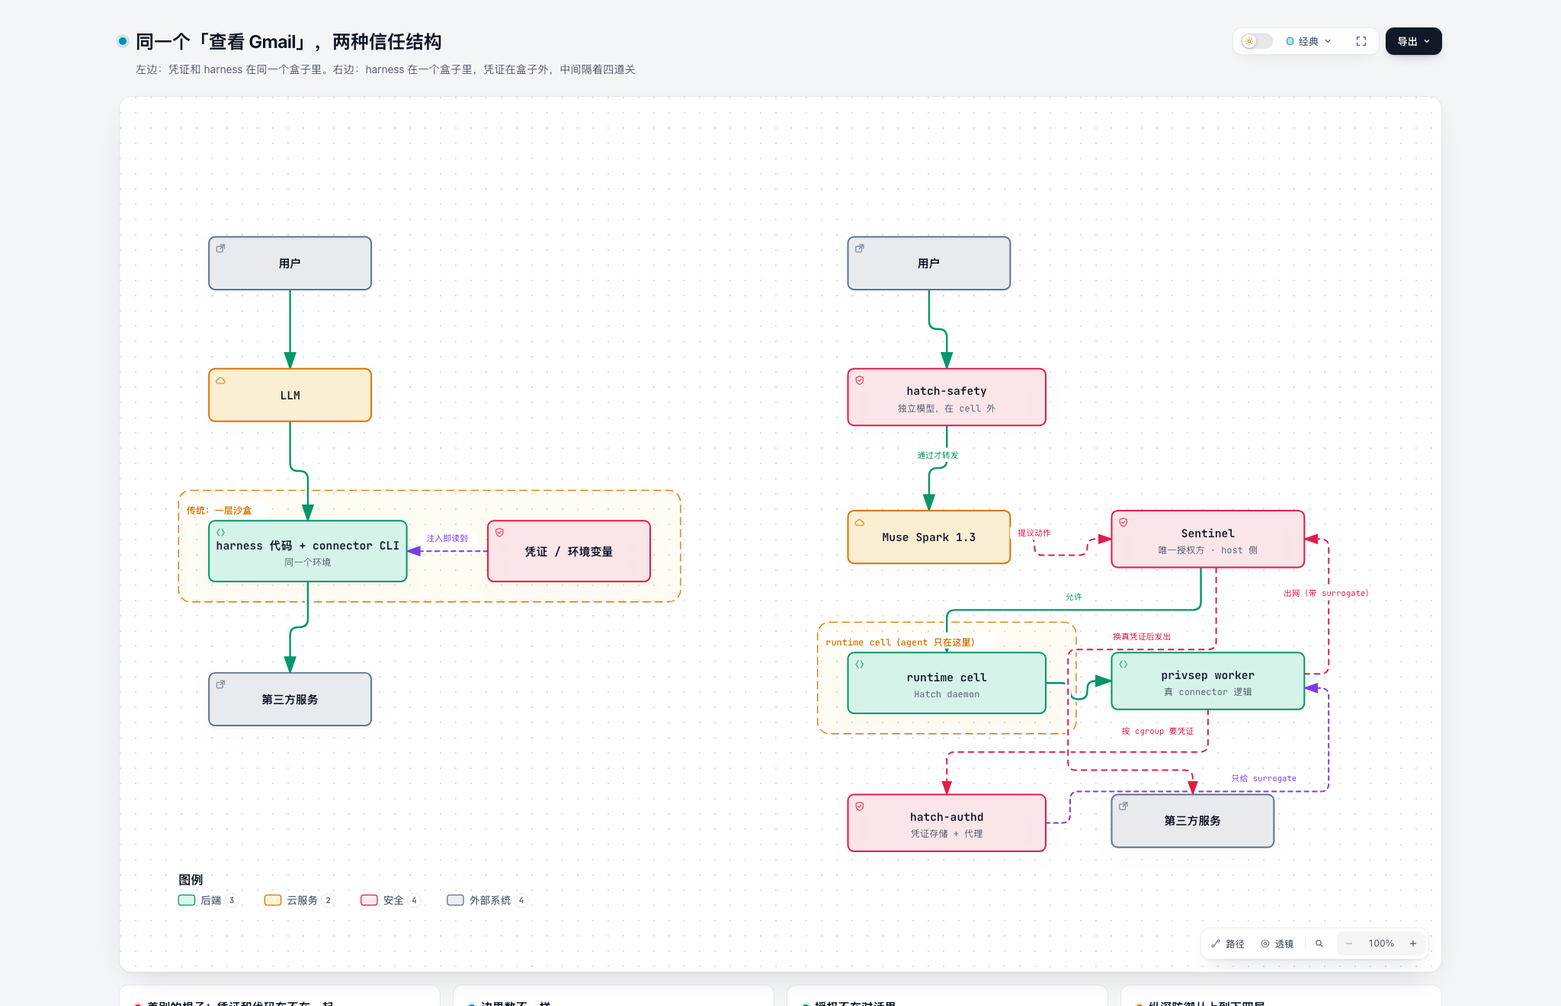
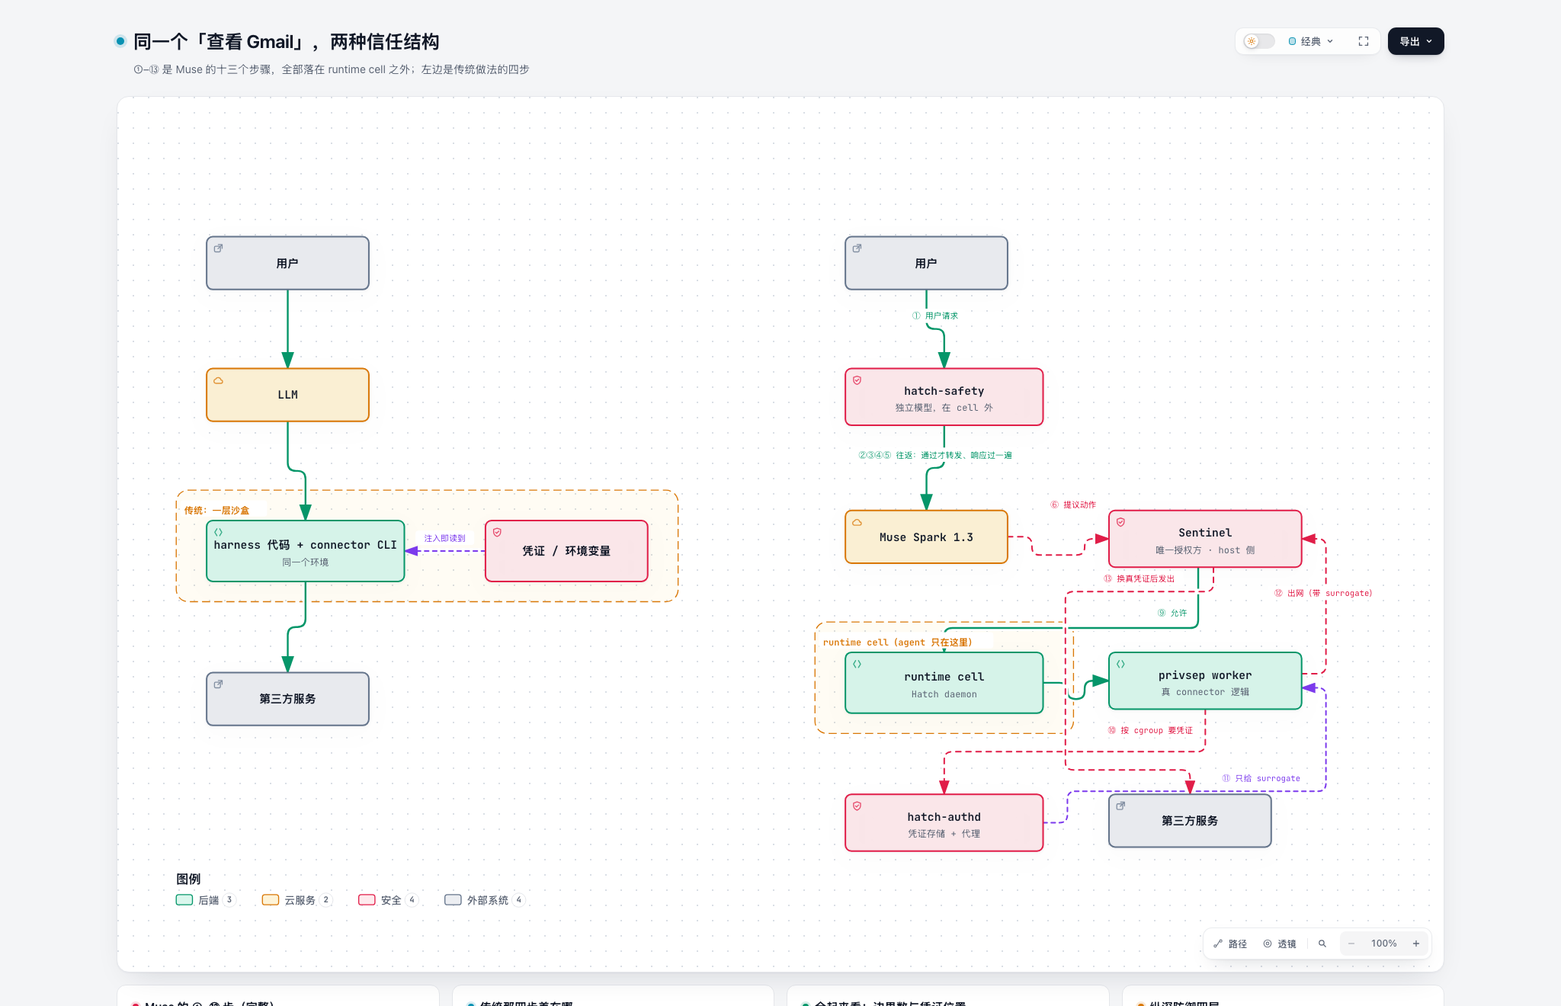
docs: 把时序图的步骤合并进对比图
按「既有细节又有对比」重做 muse-trust-boundaries：
- 保留原对比结构不变（13 条边，一条不加）
- 把 ①–⑬ 的步骤编号压到对应边的标签上
- 完整 13 步的文字放进卡片，同页可读

尝试过把 13 步全部做成独立边（17 条），但 cell→safety→model→safety→cell
是个环，叠加 worker↔authd、worker→sentinel 的回边后平面布局必然交叉，
标签校验过不了。改成编号叠加后四道门全过。

diff --git a/diagrams/muse-trust-boundaries.html b/diagrams/muse-trust-boundaries.html
@@ -4980,7 +4980,7 @@ OTHER DEALINGS IN THE FONT SOFTWARE.
         <div class="pulse-dot"></div>
         <h1>同一个「查看 Gmail」，两种信任结构</h1>
       </div>
-      <p class="subtitle">左边：凭证和 harness 在同一个盒子里。右边：harness 在一个盒子里，凭证在盒子外，中间隔着四道关</p>
+      <p class="subtitle">①–⑬ 是 Muse 的十三个步骤，全部落在 runtime cell 之外；左边是传统做法的四步</p>
     </div>
 
 
@@ -4988,9 +4988,9 @@ OTHER DEALINGS IN THE FONT SOFTWARE.
     <!-- Main Diagram -->
     <div class="diagram-container" data-detail-level="read"
          data-preset-badge-editorial-plate="ARCHIFY / 图版 04">
-      <svg viewBox="0 0 1267 794" role="img" lang="zh-CN" aria-labelledby="archify-diagram-title archify-diagram-description" data-preset="classic" data-quality-profile="showcase" data-reader-fit="intrinsic-height" data-reader-min-text="7.5" data-reader-primary-text="14">
+      <svg viewBox="0 0 1272 794" role="img" lang="zh-CN" aria-labelledby="archify-diagram-title archify-diagram-description" data-preset="classic" data-quality-profile="showcase" data-reader-fit="intrinsic-height" data-reader-min-text="7.5" data-reader-primary-text="14">
         <title id="archify-diagram-title">同一个「查看 Gmail」，两种信任结构</title>
-        <desc id="archify-diagram-description">左边：凭证和 harness 在同一个盒子里。右边：harness 在一个盒子里，凭证在盒子外，中间隔着四道关</desc>
+        <desc id="archify-diagram-description">①–⑬ 是 Muse 的十三个步骤，全部落在 runtime cell 之外；左边是传统做法的四步</desc>
         <!-- Definitions -->
         <defs>
           <marker id="arrowhead" markerWidth="10" markerHeight="7" refX="9" refY="3.5" orient="auto">
@@ -5037,19 +5037,19 @@ OTHER DEALINGS IN THE FONT SOFTWARE.
         </g>
         <g data-graph-role="automatic-crossover" style="--step:4">
           <path data-graph-role="automatic-crossover-underlay" d="M 780 172 L 780 203 Q 780 211 788 211 L 789.5 211 Q 797.5 211 797.5 219 L 797.5 250" fill="none" stroke="var(--mask)" stroke-width="5.8" stroke-linecap="round" stroke-linejoin="round" pointer-events="none"/>
-          <path data-edge-from="m_user" data-edge-to="m_safety" data-edge-key="4" data-edge-id="m1" data-composition-points="780,172;780,211;797.5,211;797.5,250" data-composition-crossover="halo" data-composition-independent="true" d="M 780 172 L 780 203 Q 780 211 788 211 L 789.5 211 Q 797.5 211 797.5 219 L 797.5 250" class="a-emphasis" stroke-width="1.8" marker-end="url(#arrowhead-emphasis)"/>
+          <path data-edge-from="m_user" data-edge-to="m_safety" data-edge-label="① 用户请求" data-edge-key="4" data-edge-id="m1" data-composition-points="780,172;780,211;797.5,211;797.5,250" data-composition-crossover="halo" data-composition-independent="true" d="M 780 172 L 780 203 Q 780 211 788 211 L 789.5 211 Q 797.5 211 797.5 219 L 797.5 250" class="a-emphasis" stroke-width="1.8" marker-end="url(#arrowhead-emphasis)"/>
         </g>
         <g data-graph-role="automatic-crossover" style="--step:5">
           <path data-graph-role="automatic-crossover-underlay" d="M 797.5 306 L 797.5 340 Q 797.5 348 789.5 348 L 788 348 Q 780 348 780 356 L 780 390" fill="none" stroke="var(--mask)" stroke-width="5.8" stroke-linecap="round" stroke-linejoin="round" pointer-events="none"/>
-          <path data-edge-from="m_safety" data-edge-to="m_model" data-edge-label="通过才转发" data-edge-key="5" data-edge-id="m2" data-composition-points="797.5,306;797.5,348;780,348;780,390" data-composition-crossover="halo" data-composition-independent="true" d="M 797.5 306 L 797.5 340 Q 797.5 348 789.5 348 L 788 348 Q 780 348 780 356 L 780 390" class="a-emphasis" stroke-width="1.8" marker-end="url(#arrowhead-emphasis)"/>
+          <path data-edge-from="m_safety" data-edge-to="m_model" data-edge-label="②③④⑤ 往返：通过才转发、响应过一遍" data-edge-key="5" data-edge-id="m2" data-composition-points="797.5,306;797.5,348;780,348;780,390" data-composition-crossover="halo" data-composition-independent="true" d="M 797.5 306 L 797.5 340 Q 797.5 348 789.5 348 L 788 348 Q 780 348 780 356 L 780 390" class="a-emphasis" stroke-width="1.8" marker-end="url(#arrowhead-emphasis)"/>
         </g>
         <g data-graph-role="automatic-crossover" style="--step:6">
           <path data-graph-role="automatic-crossover-underlay" d="M 860 416 L 876 416 Q 884 416 884 424 L 884 426 Q 884 434 892 434 L 928 434 Q 936 434 936 426 L 936 426 Q 936 418 944 418 L 960 418" fill="none" stroke="var(--mask)" stroke-width="5.5" stroke-linecap="round" stroke-linejoin="round" pointer-events="none"/>
-          <path data-edge-from="m_model" data-edge-to="m_sentinel" data-edge-label="提议动作" data-edge-key="6" data-edge-id="m3" data-composition-points="860,416;884,416;884,434;936,434;936,418;960,418" data-composition-crossover="halo" data-composition-independent="true" d="M 860 416 L 876 416 Q 884 416 884 424 L 884 426 Q 884 434 892 434 L 928 434 Q 936 434 936 426 L 936 426 Q 936 418 944 418 L 960 418" class="a-security" stroke-width="1.5" marker-end="url(#arrowhead-security)"/>
+          <path data-edge-from="m_model" data-edge-to="m_sentinel" data-edge-label="⑥ 提议动作" data-edge-key="6" data-edge-id="m3" data-composition-points="860,416;884,416;884,434;936,434;936,418;960,418" data-composition-crossover="halo" data-composition-independent="true" d="M 860 416 L 876 416 Q 884 416 884 424 L 884 426 Q 884 434 892 434 L 928 434 Q 936 434 936 426 L 936 426 Q 936 418 944 418 L 960 418" class="a-security" stroke-width="1.5" marker-end="url(#arrowhead-security)"/>
         </g>
         <g data-graph-role="automatic-crossover" style="--step:7">
-          <path data-graph-role="automatic-crossover-underlay" d="M 1048 446 L 1048 480 Q 1048 488 1040 488 L 805.5 488 Q 797.5 488 797.5 496 L 797.5 530" fill="none" stroke="var(--mask)" stroke-width="5.8" stroke-linecap="round" stroke-linejoin="round" pointer-events="none"/>
-          <path data-edge-from="m_sentinel" data-edge-to="m_cell" data-edge-label="允许" data-edge-key="7" data-edge-id="m4" data-composition-points="1048,446;1048,488;797.5,488;797.5,530" data-composition-crossover="halo" data-composition-independent="true" d="M 1048 446 L 1048 480 Q 1048 488 1040 488 L 805.5 488 Q 797.5 488 797.5 496 L 797.5 530" class="a-emphasis" stroke-width="1.8" marker-end="url(#arrowhead-emphasis)"/>
+          <path data-graph-role="automatic-crossover-underlay" d="M 1048 446 L 1048 498 Q 1048 506 1040 506 L 805.5 506 Q 797.5 506 797.5 514 L 797.5 530" fill="none" stroke="var(--mask)" stroke-width="5.8" stroke-linecap="round" stroke-linejoin="round" pointer-events="none"/>
+          <path data-edge-from="m_sentinel" data-edge-to="m_cell" data-edge-label="⑨ 允许" data-edge-key="7" data-edge-id="m4" data-composition-points="1048,446;1048,506;797.5,506;797.5,530" data-composition-crossover="halo" data-composition-independent="true" d="M 1048 446 L 1048 498 Q 1048 506 1040 506 L 805.5 506 Q 797.5 506 797.5 514 L 797.5 530" class="a-emphasis" stroke-width="1.8" marker-end="url(#arrowhead-emphasis)"/>
         </g>
         <g data-graph-role="automatic-crossover" style="--step:8">
           <path data-graph-role="automatic-crossover-underlay" d="M 895 560 L 911 560 Q 919 560 919 568 L 919 568 Q 919 576 927 576 L 928 576 Q 936 576 936 568 L 936 566 Q 936 558 944 558 L 960 558" fill="none" stroke="var(--mask)" stroke-width="5.8" stroke-linecap="round" stroke-linejoin="round" pointer-events="none"/>
@@ -5057,19 +5057,19 @@ OTHER DEALINGS IN THE FONT SOFTWARE.
         </g>
         <g data-graph-role="automatic-crossover" style="--step:9">
           <path data-graph-role="automatic-crossover-underlay" d="M 1055 586 L 1055 620 Q 1055 628 1047 628 L 805.5 628 Q 797.5 628 797.5 636 L 797.5 670" fill="none" stroke="var(--mask)" stroke-width="5.5" stroke-linecap="round" stroke-linejoin="round" pointer-events="none"/>
-          <path data-edge-from="m_worker" data-edge-to="m_authd" data-edge-label="按 cgroup 要凭证" data-edge-key="9" data-edge-id="m6" data-composition-points="1055,586;1055,628;797.5,628;797.5,670" data-composition-crossover="halo" data-composition-independent="true" d="M 1055 586 L 1055 620 Q 1055 628 1047 628 L 805.5 628 Q 797.5 628 797.5 636 L 797.5 670" class="a-security" stroke-width="1.5" marker-end="url(#arrowhead-security)"/>
+          <path data-edge-from="m_worker" data-edge-to="m_authd" data-edge-label="⑩ 按 cgroup 要凭证" data-edge-key="9" data-edge-id="m6" data-composition-points="1055,586;1055,628;797.5,628;797.5,670" data-composition-crossover="halo" data-composition-independent="true" d="M 1055 586 L 1055 620 Q 1055 628 1047 628 L 805.5 628 Q 797.5 628 797.5 636 L 797.5 670" class="a-security" stroke-width="1.5" marker-end="url(#arrowhead-security)"/>
         </g>
         <g data-graph-role="automatic-crossover" style="--step:10">
           <path data-graph-role="automatic-crossover-underlay" d="M 895 698 L 911 698 Q 919 698 919 690 L 919 675 Q 919 667 927 667 L 1166 667 Q 1174 667 1174 659 L 1174 573 Q 1174 565 1166 565 L 1150 565" fill="none" stroke="var(--mask)" stroke-width="5.5" stroke-linecap="round" stroke-linejoin="round" pointer-events="none"/>
-          <path data-edge-from="m_authd" data-edge-to="m_worker" data-edge-label="只给 surrogate" data-edge-key="10" data-edge-id="m7" data-composition-points="895,698;919,698;919,667;1174,667;1174,565;1150,565" data-composition-crossover="halo" data-composition-independent="true" d="M 895 698 L 911 698 Q 919 698 919 690 L 919 675 Q 919 667 927 667 L 1166 667 Q 1174 667 1174 659 L 1174 573 Q 1174 565 1166 565 L 1150 565" class="a-dashed" stroke-width="1.5" marker-end="url(#arrowhead-dashed)"/>
+          <path data-edge-from="m_authd" data-edge-to="m_worker" data-edge-label="⑪ 只给 surrogate" data-edge-key="10" data-edge-id="m7" data-composition-points="895,698;919,698;919,667;1174,667;1174,565;1150,565" data-composition-crossover="halo" data-composition-independent="true" d="M 895 698 L 911 698 Q 919 698 919 690 L 919 675 Q 919 667 927 667 L 1166 667 Q 1174 667 1174 659 L 1174 573 Q 1174 565 1166 565 L 1150 565" class="a-dashed" stroke-width="1.5" marker-end="url(#arrowhead-dashed)"/>
         </g>
         <g data-graph-role="automatic-crossover" style="--step:11">
           <path data-graph-role="automatic-crossover-underlay" d="M 1150 551 L 1166 551 Q 1174 551 1174 543 L 1174 426 Q 1174 418 1166 418 L 1150 418" fill="none" stroke="var(--mask)" stroke-width="5.5" stroke-linecap="round" stroke-linejoin="round" pointer-events="none"/>
-          <path data-edge-from="m_worker" data-edge-to="m_sentinel" data-edge-label="出网（带 surrogate）" data-edge-key="11" data-edge-id="m8" data-composition-points="1150,551;1174,551;1174,418;1150,418" data-composition-crossover="halo" data-composition-independent="true" d="M 1150 551 L 1166 551 Q 1174 551 1174 543 L 1174 426 Q 1174 418 1166 418 L 1150 418" class="a-security" stroke-width="1.5" marker-end="url(#arrowhead-security)"/>
+          <path data-edge-from="m_worker" data-edge-to="m_sentinel" data-edge-label="⑫ 出网（带 surrogate）" data-edge-key="11" data-edge-id="m8" data-composition-points="1150,551;1174,551;1174,418;1150,418" data-composition-crossover="halo" data-composition-independent="true" d="M 1150 551 L 1166 551 Q 1174 551 1174 543 L 1174 426 Q 1174 418 1166 418 L 1150 418" class="a-security" stroke-width="1.5" marker-end="url(#arrowhead-security)"/>
         </g>
         <g data-graph-role="automatic-crossover" style="--step:12">
-          <path data-graph-role="automatic-crossover-underlay" d="M 1063.05 446 L 1063.05 519 Q 1063.05 527 1055.05 527 L 925 527 Q 917 527 917 535 L 917 638 Q 917 646 925 646 L 1032 646 Q 1040 646 1040 654 L 1040 670" fill="none" stroke="var(--mask)" stroke-width="5.5" stroke-linecap="round" stroke-linejoin="round" pointer-events="none"/>
-          <path data-edge-from="m_sentinel" data-edge-to="m_ext" data-edge-label="换真凭证后发出" data-edge-key="12" data-edge-id="m9" data-composition-points="1063.05,446;1063.05,527;917,527;917,646;1040,646;1040,670" data-composition-crossover="halo" data-composition-independent="true" d="M 1063.05 446 L 1063.05 519 Q 1063.05 527 1055.05 527 L 925 527 Q 917 527 917 535 L 917 638 Q 917 646 925 646 L 1032 646 Q 1040 646 1040 654 L 1040 670" class="a-security" stroke-width="1.5" marker-end="url(#arrowhead-security)"/>
+          <path data-graph-role="automatic-crossover-underlay" d="M 1063.05 446 L 1063.05 462 Q 1063.05 470 1055.05 470 L 925 470 Q 917 470 917 478 L 917 638 Q 917 646 925 646 L 1032 646 Q 1040 646 1040 654 L 1040 670" fill="none" stroke="var(--mask)" stroke-width="5.5" stroke-linecap="round" stroke-linejoin="round" pointer-events="none"/>
+          <path data-edge-from="m_sentinel" data-edge-to="m_ext" data-edge-label="⑬ 换真凭证后发出" data-edge-key="12" data-edge-id="m9" data-composition-points="1063.05,446;1063.05,470;917,470;917,646;1040,646;1040,670" data-composition-crossover="halo" data-composition-independent="true" d="M 1063.05 446 L 1063.05 462 Q 1063.05 470 1055.05 470 L 925 470 Q 917 470 917 478 L 917 638 Q 917 646 925 646 L 1032 646 Q 1040 646 1040 654 L 1040 670" class="a-security" stroke-width="1.5" marker-end="url(#arrowhead-security)"/>
         </g>
 
         <!-- Components -->
@@ -5225,35 +5225,38 @@ OTHER DEALINGS IN THE FONT SOFTWARE.
           <rect x="276" y="410" width="58" height="14" rx="3" class="c-mask"/>
           <text x="305" y="420" class="t-edge-dashed" font-size="8" text-anchor="middle">注入即读到</text>
         </g>
+        <g data-detail="context" data-edge-from="m_user" data-edge-to="m_safety" data-edge-label="① 用户请求" data-edge-key="4" data-edge-id="m1">
+          <rect x="759.75" y="191" width="58" height="14" rx="3" class="c-mask"/>
+          <text x="788.75" y="201" class="t-edge-emphasis" font-size="8" text-anchor="middle">① 用户请求</text>
+        </g>
+        <g data-detail="context" data-edge-from="m_safety" data-edge-to="m_model" data-edge-label="②③④⑤ 往返：通过才转发、响应过一遍" data-edge-key="5" data-edge-id="m2">
+          <rect x="704.55" y="328" width="168.4" height="14" rx="3" class="c-mask"/>
+          <text x="788.75" y="338" class="t-edge-emphasis" font-size="8" text-anchor="middle">②③④⑤ 往返：通过才转发、响应过一遍</text>
+        </g>
+        <g data-detail="context" data-edge-from="m_model" data-edge-to="m_sentinel" data-edge-label="⑥ 提议动作" data-edge-key="6" data-edge-id="m3">
+          <rect x="896" y="377" width="58" height="14" rx="3" class="c-mask"/>
+          <text x="925" y="387" class="t-edge-security" font-size="8" text-anchor="middle">⑥ 提议动作</text>
+        </g>
+        <g data-detail="context" data-edge-from="m_sentinel" data-edge-to="m_cell" data-edge-label="⑨ 允许" data-edge-key="7" data-edge-id="m4">
+          <rect x="1003.1999999999999" y="484" width="38.8" height="14" rx="3" class="c-mask"/>
+          <text x="1022.5999999999999" y="494" class="t-edge-emphasis" font-size="8" text-anchor="middle">⑨ 允许</text>
+        </g>
 
-        <g data-detail="context" data-edge-from="m_safety" data-edge-to="m_model" data-edge-label="通过才转发" data-edge-key="5" data-edge-id="m2">
-          <rect x="759.75" y="328" width="58" height="14" rx="3" class="c-mask"/>
-          <text x="788.75" y="338" class="t-edge-emphasis" font-size="8" text-anchor="middle">通过才转发</text>
+        <g data-detail="context" data-edge-from="m_worker" data-edge-to="m_authd" data-edge-label="⑩ 按 cgroup 要凭证" data-edge-key="9" data-edge-id="m6">
+          <rect x="952.5999999999999" y="600" width="96.39999999999999" height="14" rx="3" class="c-mask"/>
+          <text x="1000.8" y="610" class="t-edge-security" font-size="8" text-anchor="middle">⑩ 按 cgroup 要凭证</text>
         </g>
-        <g data-detail="context" data-edge-from="m_model" data-edge-to="m_sentinel" data-edge-label="提议动作" data-edge-key="6" data-edge-id="m3">
-          <rect x="859.8" y="405" width="48.4" height="14" rx="3" class="c-mask"/>
-          <text x="884" y="415" class="t-edge-security" font-size="8" text-anchor="middle">提议动作</text>
+        <g data-detail="context" data-edge-from="m_authd" data-edge-to="m_worker" data-edge-label="⑪ 只给 surrogate" data-edge-key="10" data-edge-id="m7">
+          <rect x="1066.85" y="647" width="86.8" height="14" rx="3" class="c-mask"/>
+          <text x="1110.25" y="657" class="t-edge-dashed" font-size="8" text-anchor="middle">⑪ 只给 surrogate</text>
         </g>
-        <g data-detail="context" data-edge-from="m_sentinel" data-edge-to="m_cell" data-edge-label="允许" data-edge-key="7" data-edge-id="m4">
-          <rect x="907.75" y="468" width="30" height="14" rx="3" class="c-mask"/>
-          <text x="922.75" y="478" class="t-edge-emphasis" font-size="8" text-anchor="middle">允许</text>
+        <g data-detail="context" data-edge-from="m_worker" data-edge-to="m_sentinel" data-edge-label="⑫ 出网（带 surrogate）" data-edge-key="11" data-edge-id="m8">
+          <rect x="1116.2" y="464.5" width="115.6" height="14" rx="3" class="c-mask"/>
+          <text x="1174" y="474.5" class="t-edge-security" font-size="8" text-anchor="middle">⑫ 出网（带 surrogate）</text>
         </g>
-
-        <g data-detail="context" data-edge-from="m_worker" data-edge-to="m_authd" data-edge-label="按 cgroup 要凭证" data-edge-key="9" data-edge-id="m6">
-          <rect x="962.2" y="600" width="86.8" height="14" rx="3" class="c-mask"/>
-          <text x="1005.6" y="610" class="t-edge-security" font-size="8" text-anchor="middle">按 cgroup 要凭证</text>
-        </g>
-        <g data-detail="context" data-edge-from="m_authd" data-edge-to="m_worker" data-edge-label="只给 surrogate" data-edge-key="10" data-edge-id="m7">
-          <rect x="1071.65" y="647" width="77.2" height="14" rx="3" class="c-mask"/>
-          <text x="1110.25" y="657" class="t-edge-dashed" font-size="8" text-anchor="middle">只给 surrogate</text>
-        </g>
-        <g data-detail="context" data-edge-from="m_worker" data-edge-to="m_sentinel" data-edge-label="出网（带 surrogate）" data-edge-key="11" data-edge-id="m8">
-          <rect x="1121" y="464.5" width="106" height="14" rx="3" class="c-mask"/>
-          <text x="1174" y="474.5" class="t-edge-security" font-size="8" text-anchor="middle">出网（带 surrogate）</text>
-        </g>
-        <g data-detail="context" data-edge-from="m_sentinel" data-edge-to="m_ext" data-edge-label="换真凭证后发出" data-edge-key="12" data-edge-id="m9">
-          <rect x="951.425" y="507" width="77.2" height="14" rx="3" class="c-mask"/>
-          <text x="990.025" y="517" class="t-edge-security" font-size="8" text-anchor="middle">换真凭证后发出</text>
+        <g data-detail="context" data-edge-from="m_sentinel" data-edge-to="m_ext" data-edge-label="⑬ 换真凭证后发出" data-edge-key="12" data-edge-id="m9">
+          <rect x="946.625" y="450" width="86.8" height="14" rx="3" class="c-mask"/>
+          <text x="990.025" y="460" class="t-edge-security" font-size="8" text-anchor="middle">⑬ 换真凭证后发出</text>
         </g>
 
         <!-- Boundary labels (foreground masks keep routes out of titles) -->
@@ -5466,45 +5469,50 @@ OTHER DEALINGS IN THE FONT SOFTWARE.
       <div class="card">
         <div class="card-header">
           <div class="card-dot rose"></div>
-          <h3>差别的根子：凭证和代码在不在一起</h3>
+          <h3>Muse 的 ①–⑬ 步（完整）</h3>
         </div>
         <ul>
-          <li>传统做法：connector CLI 和 harness 跑在同一个环境里，凭证由 CLI 读环境变量拿到。提示注入改掉 tool 代码 = 直接拿到凭证</li>
-          <li>Muse：connector 逻辑搬到 cell 外的 privsep worker，凭证由 authd 代理，worker 只拿到 surrogate 占位符，真 token 在 Sentinel 出网那一刻才换上</li>
+          <li>① 用户：查看 Gmail　② cell → hatch-safety 请求过检测　③ safety → Muse Spark 通过才转发</li>
+          <li>④⑤ 模型响应 → safety 再过一遍 → 回到 cell</li>
+          <li>⑥ cell → Sentinel 提议动作（connector / method / 类别 / scope / 上下文）</li>
+          <li>⑦⑧ 需要授权时 Sentinel 直连客户端弹窗（不经过对话）→ 用户答复；授权是能力不是建议</li>
+          <li>⑨ Sentinel 允许，逻辑交给 cell 外的 privsep worker　⑩⑪ 按 cgroup 身份 + allowlist 向 authd 要凭证，只拿到 surrogate</li>
+          <li>⑫⑬ worker 出网 → Sentinel 做 L4/L7 校验并把 surrogate 换成真凭证 → 到第三方；真 token 只出现在这一跳</li>
         </ul>
       </div>
 
       <div class="card">
         <div class="card-header">
           <div class="card-dot cyan"></div>
-          <h3>边界数不一样</h3>
+          <h3>传统那四步差在哪</h3>
         </div>
         <ul>
-          <li>传统：只有一层沙盒。沙盒一旦被穿透，凭证就在里面</li>
-          <li>Muse：cell（systemd-nspawn，root 非真 root、禁 io_uring、禁 CAP_SYS_PTRACE/CAP_NET_ADMIN）+ privsep（cgroup 身份 + 凭证 allowlist）+ authd（ACL）+ Sentinel（逐动作、逐出网）</li>
+          <li>① 用户 → ② 调 LLM → ③ connector CLI 执行 → ④ 发请求给第三方</li>
+          <li>connector CLI 和 harness 代码跑在同一个环境里，凭证由 CLI 读环境变量拿到</li>
+          <li>只有一层沙盒。提示注入改掉 tool 代码 = 直接拿到凭证，没有第二道关</li>
         </ul>
       </div>
 
       <div class="card">
         <div class="card-header">
           <div class="card-dot emerald"></div>
-          <h3>授权不在对话里</h3>
+          <h3>合起来看：边界数与凭证位置</h3>
         </div>
         <ul>
-          <li>Sentinel 是 host 侧独立于 Muse 的 agent，是唯一授权方——Muse 只能提议</li>
-          <li>需要用户点头时，弹窗直连客户端，不经过对话；agent 没法在对话里说服用户点同意</li>
-          <li>授权是严格能力（绑定 connector / 目的地 / 用例），不是对话里的建议</li>
+          <li>传统：1 层沙盒，虚线框里同时装着代码和凭证</li>
+          <li>Muse：runtime cell 里只有 Hatch daemon；hatch-safety / Sentinel / privsep / authd 全在框外</li>
+          <li>Muse 不是把沙盒做得更厚，是把凭证搬出了沙盒</li>
         </ul>
       </div>
 
       <div class="card">
         <div class="card-header">
           <div class="card-dot amber"></div>
-          <h3>纵深防御从上到下四层</h3>
+          <h3>纵深防御四层</h3>
         </div>
         <ul>
           <li>模型层：Muse Spark 1.3 被训练抵抗提示注入，接近 SOTA</li>
-          <li>进程层：cell 限制系统访问，privsep 限制谁能看到哪个凭证</li>
+          <li>进程层：cell 限制系统访问（禁 io_uring、禁 CAP_SYS_PTRACE / CAP_NET_ADMIN）；privsep 限制谁能看到哪个凭证</li>
           <li>凭证层：authd 的 ACL + 每 worker 的凭证 allowlist</li>
           <li>请求层：Sentinel 逐动作判 + 每次出网都判（L4/L7 + SSRF）</li>
         </ul>
